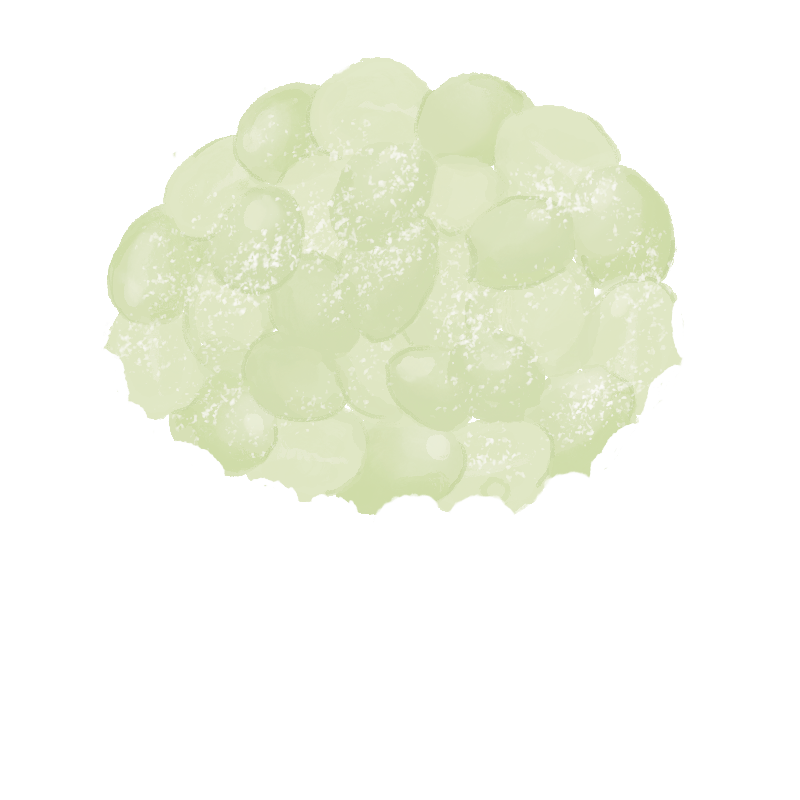
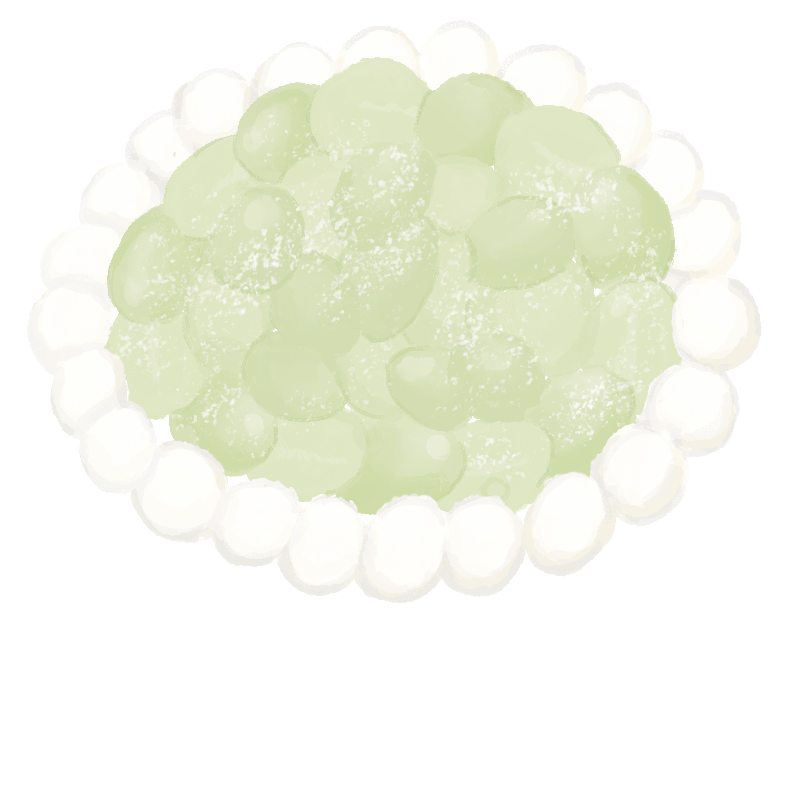
丸絞り込み果物と片側用ハーブを反映

diff --git a/help/start.html b/help/start.html
@@ -22,7 +22,7 @@
 <li>同意のチェックを入れます。</li>
 <li>**「カード登録なしで始める」**を押します。</li>
 </ol>
-<figure><a href="img/signup.png?v=1789733345dcb479" target="_blank" rel="noopener" aria-label="新規登録：お店の情報を入力する画面を拡大"><img src="img/signup.png?v=1789733345dcb479" alt="新規登録：お店の情報を入力する画面" loading="lazy" width="780" height="1688"></a><figcaption>新規登録：お店の情報を入力する画面 · タップで拡大</figcaption></figure>
+<figure><a href="img/signup.png?v=1789735274dcb479" target="_blank" rel="noopener" aria-label="新規登録：お店の情報を入力する画面を拡大"><img src="img/signup.png?v=1789735274dcb479" alt="新規登録：お店の情報を入力する画面" loading="lazy" width="780" height="1688"></a><figcaption>新規登録：お店の情報を入力する画面 · タップで拡大</figcaption></figure>
 <p>💡 店舗IDは予約ページのアドレスの一部です。後から管理画面で変更する機能はありません。</p>
 <h2 id="section-2">2. カード不要のお試しを始める<a class="anchor" href="#section-2" aria-label="この項目へのリンク">#</a></h2>
 <p>登録が完了すると管理画面へ進み、7日間のお試しが始まります。確認メールが届いた場合は、そのリンクから続けてください。</p>
@@ -30,7 +30,7 @@
 <h2 id="section-3">3. 管理画面の開き方を覚える<a class="anchor" href="#section-3" aria-label="この項目へのリンク">#</a></h2>
 <p><a href="../admin/">管理画面</a>をブックマークしておきます。次回からはメールアドレスとパスワードでログインします。</p>
 <p>スマホでメニューが見えない場合は、右上の **「☰」**を押します。</p>
-<figure><a href="img/menu.png?v=1789733345b3192b9032" target="_blank" rel="noopener" aria-label="スマホの管理メニュー：設定・商品・マニュアルへ進めますを拡大"><img src="img/menu.png?v=1789733345b3192b9032" alt="スマホの管理メニュー：設定・商品・マニュアルへ進めます" loading="lazy" width="780" height="1688"></a><figcaption>スマホの管理メニュー：設定・商品・マニュアルへ進めます · タップで拡大</figcaption></figure>
+<figure><a href="img/menu.png?v=1789735274b3192b9032" target="_blank" rel="noopener" aria-label="スマホの管理メニュー：設定・商品・マニュアルへ進めますを拡大"><img src="img/menu.png?v=1789735274b3192b9032" alt="スマホの管理メニュー：設定・商品・マニュアルへ進めます" loading="lazy" width="780" height="1688"></a><figcaption>スマホの管理メニュー：設定・商品・マニュアルへ進めます · タップで拡大</figcaption></figure>
 <h2 id="section-4">4. 予約を受けるルールを設定する<a class="anchor" href="#section-4" aria-label="この項目へのリンク">#</a></h2>
 <ol>
 <li>メニューの **「設定」**を開きます。</li>
@@ -48,7 +48,7 @@
 <li>「1時間ごと」など、時間の間隔を選びます。</li>
 <li>**「まとめて追加」**を押します。</li>
 </ol>
-<figure><a href="img/slots.png?v=1789733345f0519151" target="_blank" rel="noopener" aria-label="受取時間：時間の範囲を決めて枠を追加するを拡大"><img src="img/slots.png?v=1789733345f0519151" alt="受取時間：時間の範囲を決めて枠を追加する" loading="lazy" width="780" height="1688"></a><figcaption>受取時間：時間の範囲を決めて枠を追加する · タップで拡大</figcaption></figure>
+<figure><a href="img/slots.png?v=1789735274f0519151" target="_blank" rel="noopener" aria-label="受取時間：時間の範囲を決めて枠を追加するを拡大"><img src="img/slots.png?v=1789735274f0519151" alt="受取時間：時間の範囲を決めて枠を追加する" loading="lazy" width="780" height="1688"></a><figcaption>受取時間：時間の範囲を決めて枠を追加する · タップで拡大</figcaption></figure>
 <ol start="12">
 <li>**「お客様への案内とセルフ操作」**に、お店のキャンセルポリシーと特定商取引法に基づく表記を入れます。</li>
 <li>お客様ご自身での変更・キャンセルを使う場合は **「有効にする」**にチェックを入れます。</li>

diff --git a/app.js b/app.js
@@ -552,6 +552,9 @@ const PREVIEW_POSITION_NOTICE_NAMES = new Set([
   ...ANIMAL_TOPPING_NAMES, "ナンバークッキー大", "ナンバークッキー小",
 ]);
 const BACK_ANIMAL_TOPPING_NAMES = new Set(["ねこクッキー", "うさぎメレンゲ"]);
+const HERB_TOPPING_NAMES = new Set([
+  "ハーブ、エディブルフラワー1周", "ハーブ、エディブルフラワートッピング",
+]);
 const cakeLayerAsset = (name) => new URL(`assets/cake-layers/${name}`, location.href).href;
 // oyatsupokkeのタルト・バスクは、商品土台とは別に通常の果物レイヤーが常に付く。
 // 他店舗の商品名が同じでも混ざらないよう、店舗キーpokkeだけに限定する。
@@ -818,27 +821,31 @@ function currentLayers() {
       // トッピングを別添えにする場合、注文内容には残すがケーキ上には描かない。
       if(selectedInGroup.some((o)=>optName(o)==='選んだトッピングを別添えにする'))continue;
       for (const o of selectedInGroup) {
-        if (o.layer_url) {
-          if(dogNumberCombo && optName(o)==="わんこホイップ絞り")continue;
+        const name=optName(o);
+        // サイド寄せの果物には1周ハーブではなく、同じ片側へ寄せた専用レイヤーを使う。
+        const layerUrl=CONFIG.shop==="pokke" && selectedNames.has("フルーツサイド寄せ") && HERB_TOPPING_NAMES.has(name)
+          ? cakeLayerAsset("fruit-side-herb.png") : o.layer_url;
+        if (layerUrl) {
+          if(dogNumberCombo && name==="わんこホイップ絞り")continue;
           // カレンダーケーキのクッキープレートは別添え。注文には残し、ケーキ上には描かない。
-          if(calendarCake && optName(o)==="クッキープレート")continue;
-          if(o.layer_url.includes('{digit}')){
+          if(calendarCake && name==="クッキープレート")continue;
+          if(layerUrl.includes('{digit}')){
             const q=state.questions.find(q=>qLive(q)&&qOptionId(q)===o.id);
             const digits=(normAnswer(state.sel.answers.get(q?.id)).text||'').match(/[0-9]/g)||[];
             const qty=Math.max(1,state.sel.options.get(o.id)?.qty||1);
             for(const digit of digits.slice(0,qty))layers.push({
-              url:o.layer_url.replace('{digit}',digit),z:o.layer_z??80,
-              numberCookie:{size:optName(o).includes('小')?'S':'L'}
+              url:layerUrl.replace('{digit}',digit),z:o.layer_z??80,
+              numberCookie:{size:name.includes('小')?'S':'L'}
             });
             continue;
           }
           const q=state.questions.find(q=>qLive(q)&&qOptionId(q)===o.id&&q.input_type==='pastel_color');
           const tint=q ? parsePastelAnswer(normAnswer(state.sel.answers.get(q.id)).text).hex : null;
-          const animalName=ANIMAL_TOPPING_NAMES.has(optName(o))?optName(o):null;
+          const animalName=ANIMAL_TOPPING_NAMES.has(name)?name:null;
           layers.push({
-            url: o.layer_url, z: animalName?(BACK_ANIMAL_TOPPING_NAMES.has(animalName)?64:70):(o.layer_z ?? 50), tint,
+            url: layerUrl, z: animalName?(BACK_ANIMAL_TOPPING_NAMES.has(animalName)?64:70):(o.layer_z ?? 50), tint,
             animalTopping: animalName,
-            shiftedMessagePlate: optName(o)==="クッキープレート" && selectedNames.has("ナンバークッキー大"),
+            shiftedMessagePlate: name==="クッキープレート" && selectedNames.has("ナンバークッキー大"),
           });
         }
       }

diff --git a/help/products.html b/help/products.html
@@ -50,7 +50,7 @@
 <li><strong>この商品だけ受け付けない日</strong>：この商品だけ特定の日を休みたいときに日付を追加します。</li>
 </ul>
 <p>💡 定休日にクリスマス営業をしたい（12/24が定休日でも受け取れるようにしたい）場合は、設定ページの「臨時休業・臨時営業」で <strong>「定休日だけど営業」</strong> の日を登録してください（お店全体に効きます）。</p>
-<figure><a href="img/season.png?v=1789733345a0369fcec46" target="_blank" rel="noopener" aria-label="季節商品：受付期間と受取期間を分けて設定しますを拡大"><img src="img/season.png?v=1789733345a0369fcec46" alt="季節商品：受付期間と受取期間を分けて設定します" loading="lazy" width="780" height="1688"></a><figcaption>季節商品：受付期間と受取期間を分けて設定します · タップで拡大</figcaption></figure>
+<figure><a href="img/season.png?v=1789735274a0369fcec46" target="_blank" rel="noopener" aria-label="季節商品：受付期間と受取期間を分けて設定しますを拡大"><img src="img/season.png?v=1789735274a0369fcec46" alt="季節商品：受付期間と受取期間を分けて設定します" loading="lazy" width="780" height="1688"></a><figcaption>季節商品：受付期間と受取期間を分けて設定します · タップで拡大</figcaption></figure>
 <h2 id="section-5">サイズと価格<a class="anchor" href="#section-5" aria-label="この項目へのリンク">#</a></h2>
 <ol>
 <li>サイズ名（例：12cm、4号）と価格（税込）を入れて <strong>「追加」</strong> を押します。</li>
@@ -110,7 +110,7 @@
 <li>必要なら <strong>「必須にする」</strong> にチェックを入れます。</li>
 <li>補足（質問の下に小さく出る一言）は任意です。</li>
 </ol>
-<figure><a href="img/questions.png?v=1789733345e2362629e" target="_blank" rel="noopener" aria-label="共通の質問：質問文と回答のしかたを設定しますを拡大"><img src="img/questions.png?v=1789733345e2362629e" alt="共通の質問：質問文と回答のしかたを設定します" loading="lazy" width="780" height="1688"></a><figcaption>共通の質問：質問文と回答のしかたを設定します · タップで拡大</figcaption></figure>
+<figure><a href="img/questions.png?v=1789735274e2362629e" target="_blank" rel="noopener" aria-label="共通の質問：質問文と回答のしかたを設定しますを拡大"><img src="img/questions.png?v=1789735274e2362629e" alt="共通の質問：質問文と回答のしかたを設定します" loading="lazy" width="780" height="1688"></a><figcaption>共通の質問：質問文と回答のしかたを設定します · タップで拡大</figcaption></figure>
 <h3>見本の画像</h3>
 <p>質問の下に<strong>見本の画像を1枚</strong>出せます（任意）。**「見本の画像」→「写真を選ぶ」**でアップするだけです。</p>
 <ul>

diff --git a/help/faq.html b/help/faq.html
@@ -66,7 +66,7 @@
 <li>メールアプリ側で送信します。</li>
 </ol>
 <p><strong>「依頼内容を確認する」を押しただけでは送信されません。</strong> メールアプリが開かない場合は「本文をコピー」でコピーし、<a href="mailto:info@oyatsupokke.com">info@oyatsupokke.com</a>へ送信してください。ログインできない場合も、このアドレスからお問い合わせできます。</p>
-<figure><a href="img/support.png?v=1789733345c02707868" target="_blank" rel="noopener" aria-label="サポート：通常のお問い合わせ・不具合報告を選ぶを拡大"><img src="img/support.png?v=1789733345c02707868" alt="サポート：通常のお問い合わせ・不具合報告を選ぶ" loading="lazy" width="780" height="1688"></a><figcaption>サポート：通常のお問い合わせ・不具合報告を選ぶ · タップで拡大</figcaption></figure>
+<figure><a href="img/support.png?v=1789735274c02707868" target="_blank" rel="noopener" aria-label="サポート：通常のお問い合わせ・不具合報告を選ぶを拡大"><img src="img/support.png?v=1789735274c02707868" alt="サポート：通常のお問い合わせ・不具合報告を選ぶ" loading="lazy" width="780" height="1688"></a><figcaption>サポート：通常のお問い合わせ・不具合報告を選ぶ · タップで拡大</figcaption></figure>
 <p>画面写真を添える場合は、パスワードやお客様の名前・連絡先を隠してください。通常のお問い合わせの送信に料金はかかりません。有料の設定サポート・代行とは別に選べます。</p>
 </article><footer class="article-footer"><a href="index.html">目次へ戻る</a><a href="faq.html">困ったとき</a><a href="#content">ページの上へ ↑</a></footer></main>
 <aside class="on-this-page"><p>このページの内容</p><nav aria-label="このページの内容"><a href="#section-1">予約ページについて</a><a href="#section-2">メールについて</a><a href="#section-3">予約の操作について</a><a href="#section-4">ログインについて</a><a href="#section-5">印刷について</a><a href="#section-6">料金・解約について</a><a href="#section-7">解決しないとき</a></nav></aside></div><footer class="site-footer">画面写真はサンプル店舗の操作例です。<br><a href="../admin/index.html?tab=support">お問い合わせ</a> · <a href="../terms.html">利用規約</a> · <a href="../privacy.html">プライバシーポリシー</a></footer></body></html>

diff --git a/help/customer.html b/help/customer.html
@@ -17,7 +17,7 @@
 <li><strong>お客様情報</strong> — 名前・フリガナ・電話・メール（ご住所を「表示する」にしているお店では、郵便番号を入れると住所が自動で入ります）</li>
 </ol>
 <p>最後に <strong>「入力内容を確認する」</strong> → 確認画面（キャンセルポリシーもここに表示）→ <strong>「この内容で注文する」</strong> で予約完了です。</p>
-<figure><a href="img/form.png?v=1789733345e01ca6ca1c" target="_blank" rel="noopener" aria-label="お客様の予約ページを拡大"><img src="img/form.png?v=1789733345e01ca6ca1c" alt="お客様の予約ページ" loading="lazy" width="780" height="1688"></a><figcaption>お客様の予約ページ · タップで拡大</figcaption></figure>
+<figure><a href="img/form.png?v=1789735274e01ca6ca1c" target="_blank" rel="noopener" aria-label="お客様の予約ページを拡大"><img src="img/form.png?v=1789735274e01ca6ca1c" alt="お客様の予約ページ" loading="lazy" width="780" height="1688"></a><figcaption>お客様の予約ページ · タップで拡大</figcaption></figure>
 <p>💡 入力の途中でページを閉じても、同じ端末・同じSafariやChromeでは、保存された入力内容から再開できます。添付画像は再選択が必要になる場合があります。共有端末では他の人の入力内容が残っていないか確認してください。</p>
 <h2 id="section-2">確認メール<a class="anchor" href="#section-2" aria-label="この項目へのリンク">#</a></h2>
 <p>予約が完了すると、お客様に自動で確認メールが届きます。</p>

diff --git a/help/overview.html b/help/overview.html
@@ -8,7 +8,7 @@
 <ol>
 <li>ケーキを選ぶ → 2. サイズを選ぶ → 3. カスタマイズ（フルーツなど） → 4. 受取日を選ぶ → 5. ご記入欄 → 6. お客様情報 → 内容の確認 → 注文</li>
 </ol>
-<figure><a href="img/form.png?v=1789733345e01ca6ca1c" target="_blank" rel="noopener" aria-label="お客様の予約ページ：商品・サイズを選びますを拡大"><img src="img/form.png?v=1789733345e01ca6ca1c" alt="お客様の予約ページ：商品・サイズを選びます" loading="lazy" width="780" height="1688"></a><figcaption>お客様の予約ページ：商品・サイズを選びます · タップで拡大</figcaption></figure>
+<figure><a href="img/form.png?v=1789735274e01ca6ca1c" target="_blank" rel="noopener" aria-label="お客様の予約ページ：商品・サイズを選びますを拡大"><img src="img/form.png?v=1789735274e01ca6ca1c" alt="お客様の予約ページ：商品・サイズを選びます" loading="lazy" width="780" height="1688"></a><figcaption>お客様の予約ページ：商品・サイズを選びます · タップで拡大</figcaption></figure>
 <ul>
 <li>受取日のカレンダーでは、<strong>予約できる日だけ</strong>を選べます（定休日・締切を過ぎた日・満枠の日は自動で選べなくなります）</li>
 <li>注文するとお客様に<strong>確認メール</strong>が自動で届きます。メールの専用リンクから、お客様がご自身で変更・キャンセルもできます（期限はお店が決められます。<a href="customer.html">第5章</a>）</li>

diff --git a/admin/index.html b/admin/index.html
@@ -4,10 +4,10 @@
 <meta charset="UTF-8">
 <meta name="viewport" content="width=device-width, initial-scale=1.0">
 <title>管理画面｜オーダーケーキ予約</title>
-<link rel="stylesheet" href="../styles.css?v=1789733345">
-<link rel="stylesheet" href="admin.css?v=1789733345">
-<link rel="stylesheet" href="admin-layout.css?v=1789733345">
-<link rel="stylesheet" href="support.css?v=1789733345">
+<link rel="stylesheet" href="../styles.css?v=1789735274">
+<link rel="stylesheet" href="admin.css?v=1789735274">
+<link rel="stylesheet" href="admin-layout.css?v=1789735274">
+<link rel="stylesheet" href="support.css?v=1789735274">
 </head>
 <body>
 <div id="app" class="admin">
@@ -452,12 +452,12 @@
 
   <div id="toast" class="toast hidden"></div>
 </div>
-<script src="tips.js?v=1789733345"></script>
-<script src="edit-drafts.js?v=1789733345"></script>
-<script src="report-core.js?v=1789733345"></script>
-<script src="line-settings.js?v=1789733345"></script>
-<script src="admin.js?v=1789733345"></script>
-<script src="reports.js?v=1789733345"></script>
-<script src="support.js?v=1789733345"></script>
+<script src="tips.js?v=1789735274"></script>
+<script src="edit-drafts.js?v=1789735274"></script>
+<script src="report-core.js?v=1789735274"></script>
+<script src="line-settings.js?v=1789735274"></script>
+<script src="admin.js?v=1789735274"></script>
+<script src="reports.js?v=1789735274"></script>
+<script src="support.js?v=1789735274"></script>
 </body>
 </html>

diff --git a/help/billing.html b/help/billing.html
@@ -11,7 +11,7 @@
 <li>契約状況と無料期間の終了日を確認します。</li>
 <li>カード変更や解約をする場合は **「お支払い管理をひらく」**を押します。Stripeのお支払い管理ページが開きます。</li>
 </ol>
-<figure><a href="img/billing.png?v=1789733345b666af21f00" target="_blank" rel="noopener" aria-label="ご契約・お支払い：契約状況と管理ページへの入口を拡大"><img src="img/billing.png?v=1789733345b666af21f00" alt="ご契約・お支払い：契約状況と管理ページへの入口" loading="lazy" width="780" height="1688"></a><figcaption>ご契約・お支払い：契約状況と管理ページへの入口 · タップで拡大</figcaption></figure>
+<figure><a href="img/billing.png?v=1789735274b666af21f00" target="_blank" rel="noopener" aria-label="ご契約・お支払い：契約状況と管理ページへの入口を拡大"><img src="img/billing.png?v=1789735274b666af21f00" alt="ご契約・お支払い：契約状況と管理ページへの入口" loading="lazy" width="780" height="1688"></a><figcaption>ご契約・お支払い：契約状況と管理ページへの入口 · タップで拡大</figcaption></figure>
 <h2 id="section-2">料金と無料期間<a class="anchor" href="#section-2" aria-label="この項目へのリンク">#</a></h2>
 <ul>
 <li>基本利用料は **月額4,980円（税込）**です。</li>

diff --git a/admin/products.html b/admin/products.html
@@ -4,10 +4,10 @@
 <meta charset="UTF-8">
 <meta name="viewport" content="width=device-width, initial-scale=1.0">
 <title>商品の設定｜管理画面</title>
-<link rel="stylesheet" href="../styles.css?v=1789733345">
-<link rel="stylesheet" href="admin.css?v=1789733345">
-<link rel="stylesheet" href="products.css?v=1789733345">
-<link rel="stylesheet" href="admin-layout.css?v=1789733345">
+<link rel="stylesheet" href="../styles.css?v=1789735274">
+<link rel="stylesheet" href="admin.css?v=1789735274">
+<link rel="stylesheet" href="products.css?v=1789735274">
+<link rel="stylesheet" href="admin-layout.css?v=1789735274">
 </head>
 <body>
 <div id="app" class="admin products-page">
@@ -216,10 +216,10 @@
   <button id="fab" type="button">プレビュー</button>
   <div id="toast" class="toast hidden"></div>
 </div>
-<script src="tips.js?v=1789733345"></script>
-<script src="edit-drafts.js?v=1789733345"></script>
-<script src="products-menu.js?v=1789733345"></script>
-<script src="pickup-schedule.js?v=1789733345"></script>
-<script src="products.js?v=1789733345"></script>
+<script src="tips.js?v=1789735274"></script>
+<script src="edit-drafts.js?v=1789735274"></script>
+<script src="products-menu.js?v=1789735274"></script>
+<script src="pickup-schedule.js?v=1789735274"></script>
+<script src="products.js?v=1789735274"></script>
 </body>
 </html>

diff --git a/help/settings.html b/help/settings.html
@@ -52,7 +52,7 @@
 <li>枠ごとに<strong>上限台数</strong>を入れられます。空欄の枠は台数無制限です。
 例）12時台はお店が混むので2台まで</li>
 </ul>
-<figure><a href="img/slots.png?v=1789733345f0519151" target="_blank" rel="noopener" aria-label="受取時間の設定を拡大"><img src="img/slots.png?v=1789733345f0519151" alt="受取時間の設定" loading="lazy" width="780" height="1688"></a><figcaption>受取時間の設定 · タップで拡大</figcaption></figure>
+<figure><a href="img/slots.png?v=1789735274f0519151" target="_blank" rel="noopener" aria-label="受取時間の設定を拡大"><img src="img/slots.png?v=1789735274f0519151" alt="受取時間の設定" loading="lazy" width="780" height="1688"></a><figcaption>受取時間の設定 · タップで拡大</figcaption></figure>
 <h2 id="section-6">臨時休業・臨時営業<a class="anchor" href="#section-6" aria-label="この項目へのリンク">#</a></h2>
 <ul>
 <li><strong>臨時休業</strong>：営業日だけれど予約を受けない日。日付を選んで追加します。</li>

diff --git a/index.html b/index.html
@@ -6,8 +6,8 @@
 <title>オーダーケーキのご予約</title>
 <link rel="preconnect" href="https://fonts.googleapis.com">
 <link rel="stylesheet" href="https://fonts.googleapis.com/css2?family=Zen+Kaku+Gothic+New:wght@400;500;700&family=Zen+Maru+Gothic:wght@500;700&family=Shippori+Mincho:wght@500;700&display=swap">
-<link rel="stylesheet" href="styles.css?v=1789733345">
-<link rel="stylesheet" href="form-layout.css?v=1789733345">
+<link rel="stylesheet" href="styles.css?v=1789735274">
+<link rel="stylesheet" href="form-layout.css?v=1789735274">
 </head>
 <body>
 <div id="app">
@@ -151,9 +151,9 @@
   <div id="toast" class="toast hidden"></div>
 
 </div>
-<script src="safe-display.js?v=1789733345"></script>
-<script src="booking-retry.js?v=1789733345"></script>
-<script src="app.js?v=1789733345"></script>
-<script src="form-layout.js?v=1789733345"></script>
+<script src="safe-display.js?v=1789735274"></script>
+<script src="booking-retry.js?v=1789735274"></script>
+<script src="app.js?v=1789735274"></script>
+<script src="form-layout.js?v=1789735274"></script>
 </body>
 </html>

diff --git a/manage.html b/manage.html
@@ -5,7 +5,7 @@
 <meta name="viewport" content="width=device-width, initial-scale=1.0">
 <meta name="robots" content="noindex">
 <title>ご予約の確認・変更・キャンセル</title>
-<link rel="stylesheet" href="styles.css?v=1789733345">
+<link rel="stylesheet" href="styles.css?v=1789735274">
 <style>
   /* このページ専用の少しだけの追加スタイル */
   .status-chip { display: inline-block; padding: 2px 10px; border-radius: 999px; font-size: 12px; font-weight: 600; background: #f2e8dc; color: #7a5c3d; vertical-align: middle; margin-left: 8px; }
@@ -107,7 +107,7 @@
 
   <div id="toast" class="toast hidden"></div>
 </div>
-<script src="safe-display.js?v=1789733345"></script>
-<script src="manage.js?v=1789733345"></script>
+<script src="safe-display.js?v=1789735274"></script>
+<script src="manage.js?v=1789735274"></script>
 </body>
 </html>
